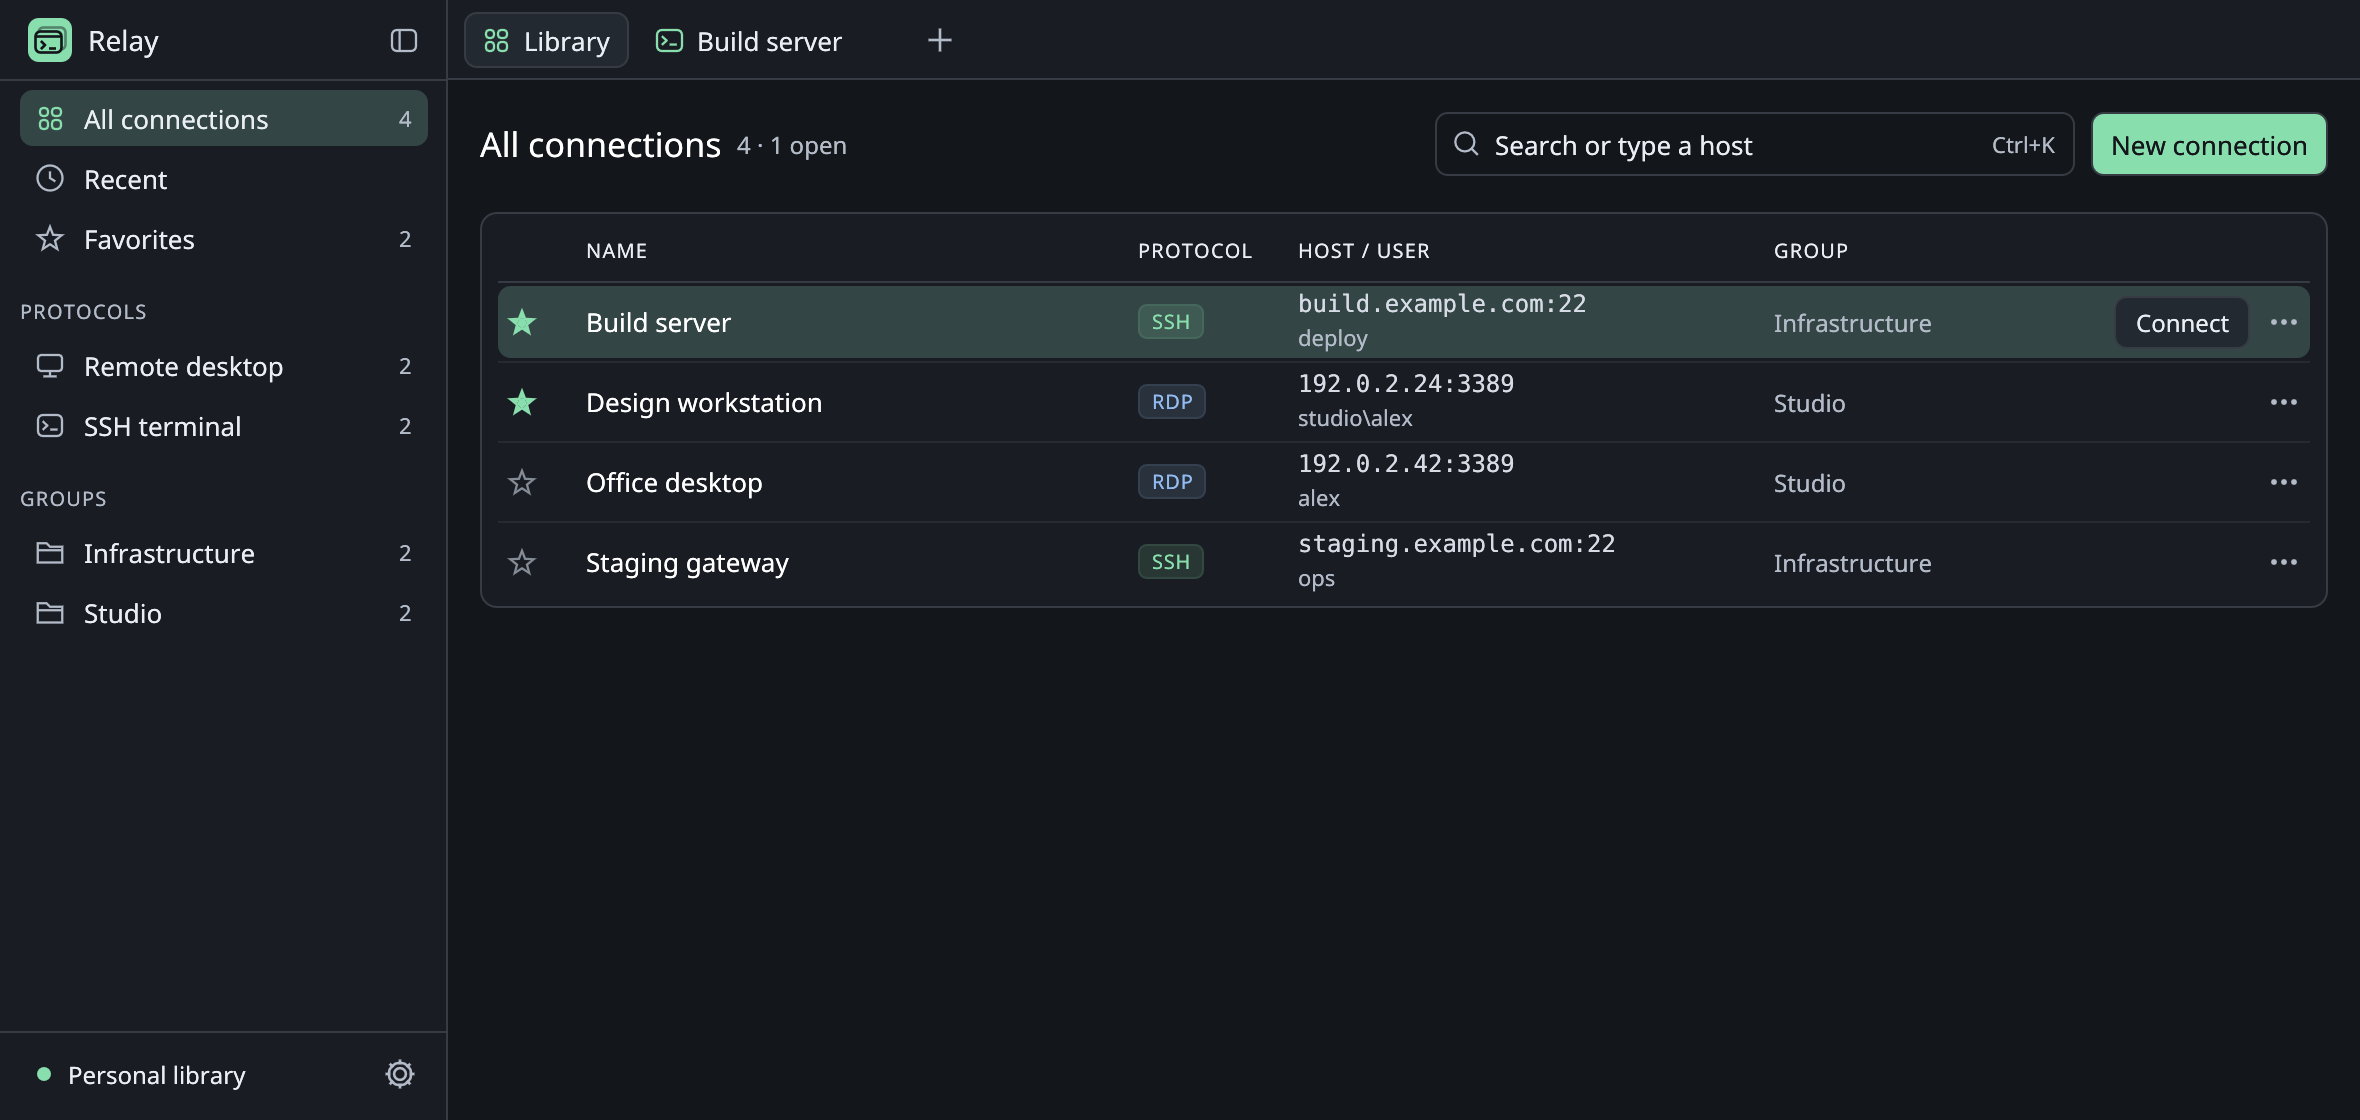
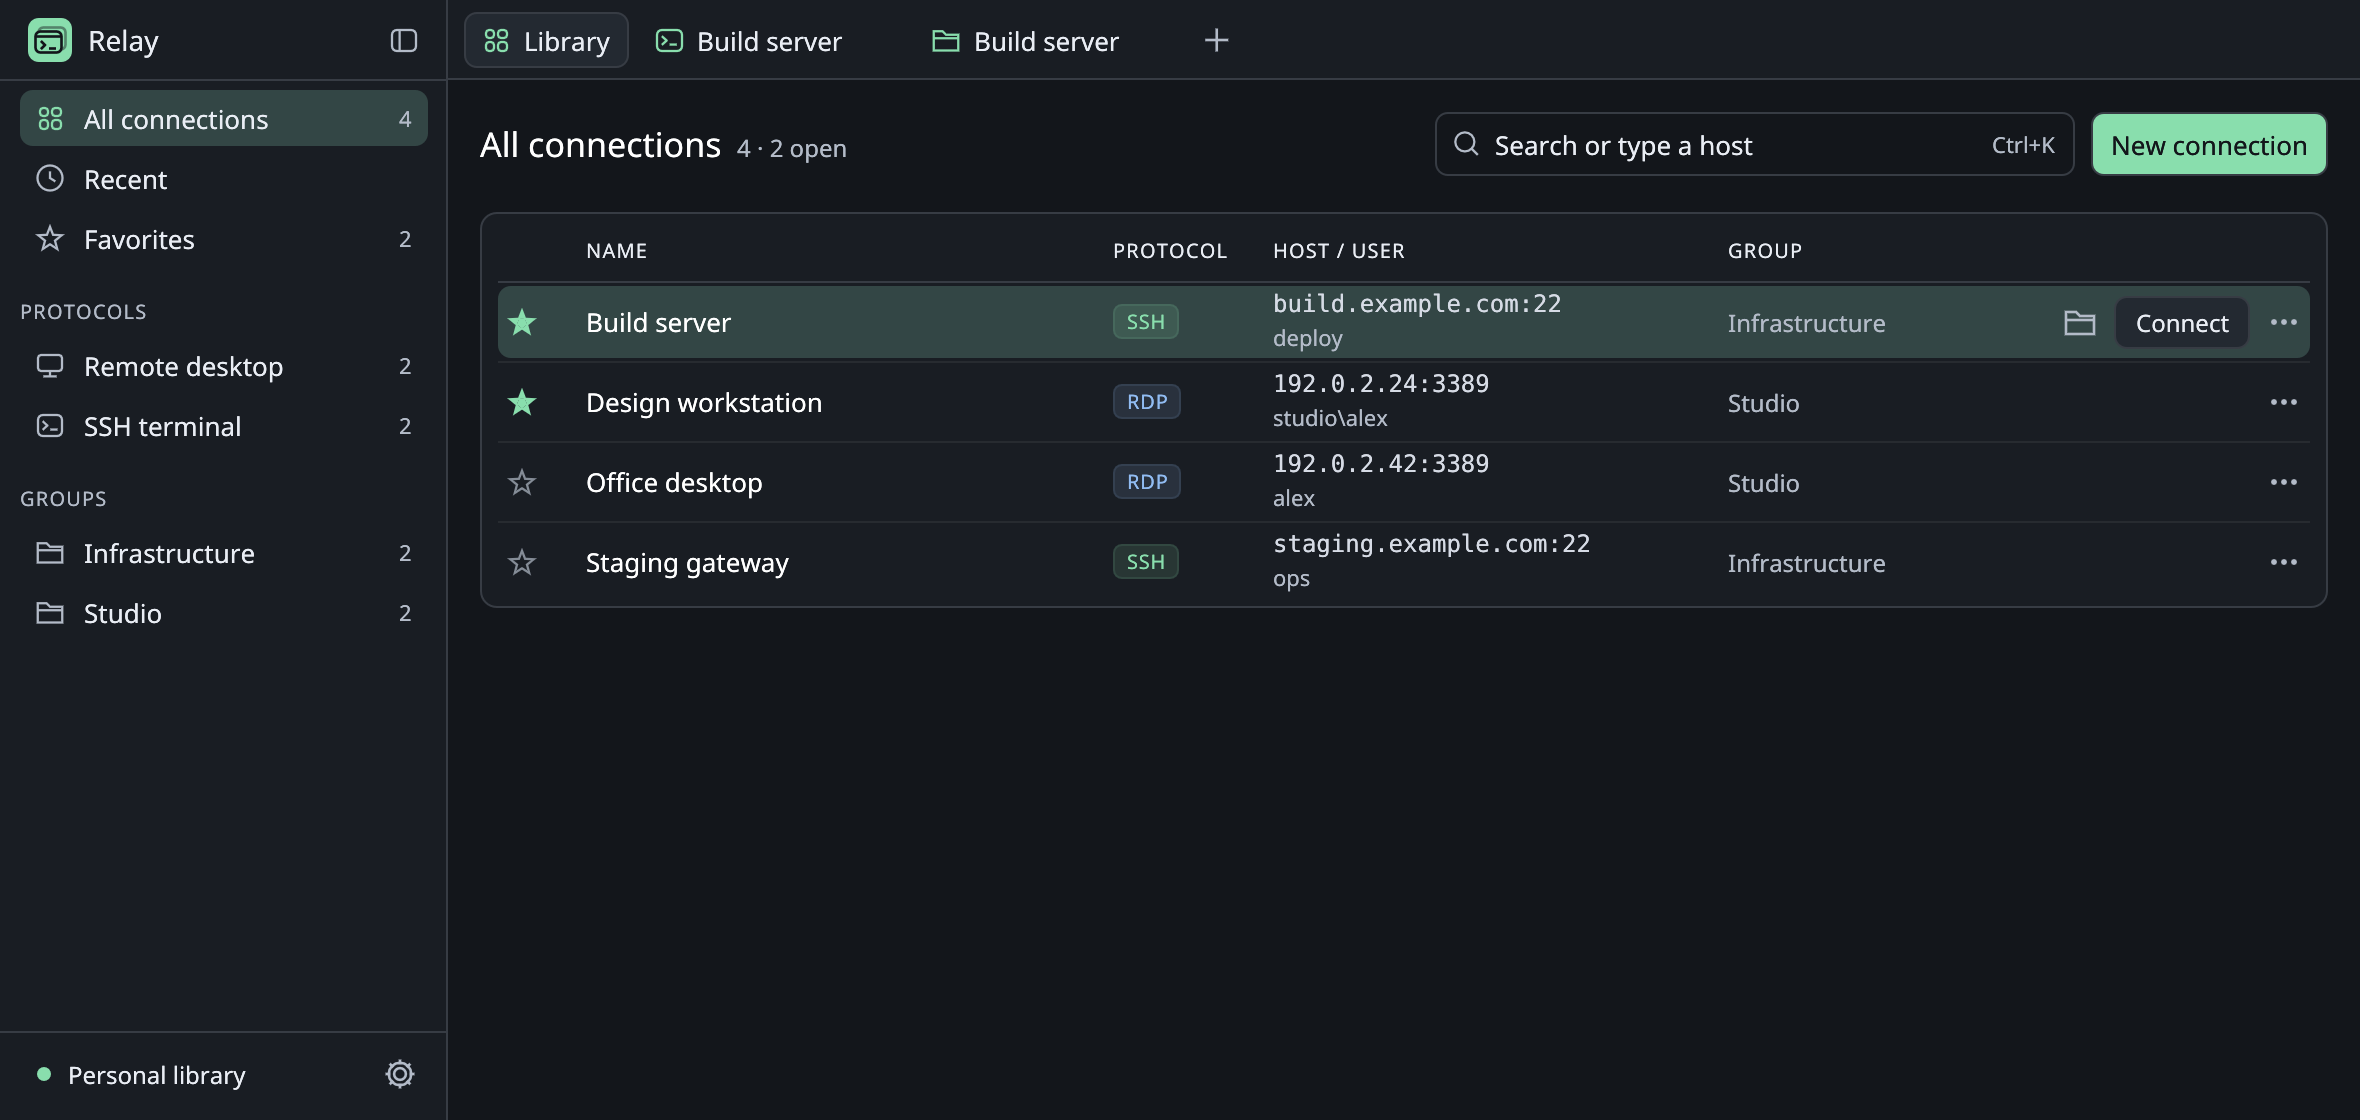
Update the README screenshots for the file browser
The library screenshot shows a terminal and its file browser in tabs, and
the SFTP section gains a screenshot of the browser with a transfer.

Claude-Session: https://claude.ai/code/session_01HTqDGWUcTNEvHi8QqJcYEG

diff --git a/README.md b/README.md
@@ -2,7 +2,7 @@
 
 A remote connection manager for Windows, macOS, and Linux, written in Rust. A dark, GPU-rendered workspace with a searchable library, group filters, favorites, and tabs for RDP and SSH sessions and SFTP file browsing.
 
-![Relay's connection library in the Graphite theme, with an SSH session open in a tab](assets/screenshot.png)
+![Relay's connection library in the Graphite theme, with an SSH terminal and its file browser open in tabs](assets/screenshot.png)
 
 ## Install
 
@@ -148,6 +148,8 @@ SSH runs in a dark terminal panel that keeps its own colors in every app theme, 
 SSH profiles have **SSH options**: a jump host (`ssh -J`), an identity file (`ssh -i`), and port forwards written as `L8080:localhost:80`, `R9000:localhost:9000` or `D1080`, separated by commas. Relay passes `ServerAliveInterval=15`, so a dropped connection is noticed within about 45 seconds. When ssh exits with 255 after the session had been up, Relay reconnects in the same tab after 1, 2, 4, 8, 16, then 30 seconds, up to ten times; **Reconnect now** and **Stop** are shown meanwhile. Wrong passwords, unknown hosts and `exit` are not retried.
 
 ### SFTP file browser
+
+![The SFTP file browser showing a folder on a build server, with a download in progress](assets/screenshot-files.png)
 
 An SSH connection's files open in a tab of their own: **Browse files** in a row's menu, the folder button on the row, `Shift+Enter` in the library, or **Files** in an SSH tab's header, which opens the browser beside the terminal in split view (**Terminal** in the browser does the reverse). Relay runs the system's ssh with the `sftp` subsystem (`ssh -T -s host sftp`), so your SSH config, keys, agent, jump hosts and `known_hosts` apply exactly as in the terminal; with a `ControlMaster` in your config, the browser shares the terminal's connection. Port forwards, X11 forwarding and `RemoteCommand` are left out for the browser.
 
